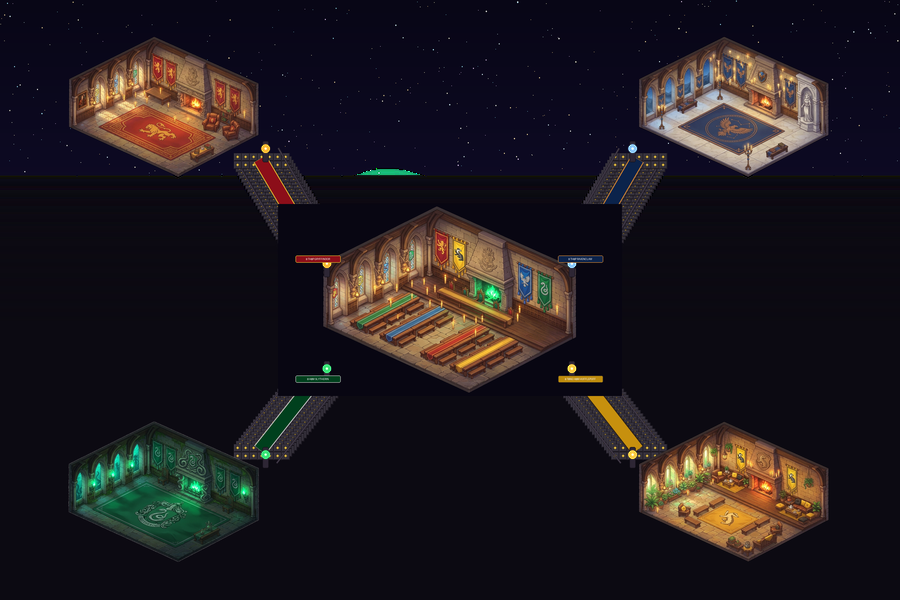
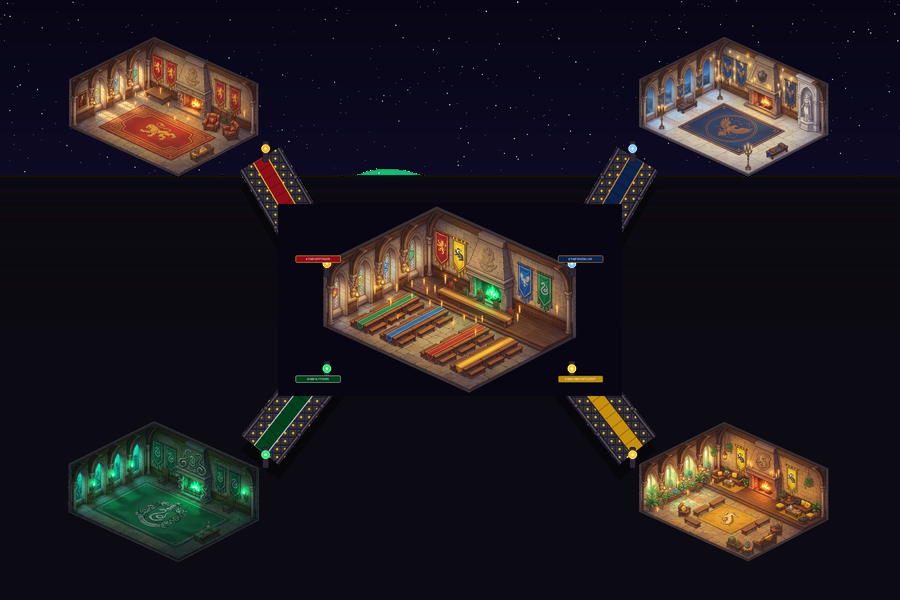
feat: redesign corridors to look like floating bridges with smooth clipping and carpet runners

diff --git a/scripts/build_hub_and_spoke_final.py b/scripts/build_hub_and_spoke_final.py
@@ -72,45 +72,93 @@ def build_map():
         dx = x2 - x1
         dy = y2 - y1
         dist = math.hypot(dx, dy)
-        steps = int(dist / 16) + 1
-        
-        # A. Stone Flagstone Foundation (width + 40 for stone parapet borders)
-        for s in range(steps + 1):
-            t = s / steps
-            cx = int(x1 + dx * t)
-            cy = int(y1 + dy * t)
-            half_w = width // 2 + 20
-            for fx in range(cx - half_w, cx + half_w, 32):
-                for fy in range(cy - 24, cy + 24, 32):
-                    world.paste(flag_tile, (fx, fy), flag_tile)
-
-        # B. Stone Side Parapets / Balustrades
         nx = -dy / dist
         ny = dx / dist
-        w_half = width // 2
         
-        # Left and Right stone curbs
-        for side in [-1, 1]:
-            curb_x1 = int(x1 + side * w_half * nx)
-            curb_y1 = int(y1 + side * w_half * ny)
-            curb_x2 = int(x2 + side * w_half * nx)
-            curb_y2 = int(y2 + side * w_half * ny)
-            draw.line([(curb_x1, curb_y1), (curb_x2, curb_y2)], fill=(32, 26, 36, 255), width=8)
-            draw.line([(curb_x1, curb_y1), (curb_x2, curb_y2)], fill=(65, 58, 72, 255), width=4)
+        # Define the polygon for the stone foundation
+        w_half = width // 2 + 10
+        poly_pts = [
+            (x1 + w_half * nx, y1 + w_half * ny),
+            (x2 + w_half * nx, y2 + w_half * ny),
+            (x2 - w_half * nx, y2 - w_half * ny),
+            (x1 - w_half * nx, y1 - w_half * ny)
+        ]
+        
+        # A. Bridge Drop Shadow (to make it look like it's floating in the night sky)
+        shadow_offset_y = 60
+        shadow_pts = [(p[0], p[1] + shadow_offset_y) for p in poly_pts]
+        draw.polygon(shadow_pts, fill=(8, 6, 12, 200))
+        
+        # B. Smooth Stone Flagstone Foundation using polygon mask
+        corridor_mask = Image.new('L', (CW, CH), 0)
+        mask_draw = ImageDraw.Draw(corridor_mask)
+        mask_draw.polygon(poly_pts, fill=255)
+        
+        min_x = max(0, int(min(p[0] for p in poly_pts)))
+        max_x = min(CW, int(max(p[0] for p in poly_pts)))
+        min_y = max(0, int(min(p[1] for p in poly_pts)))
+        max_y = min(CH, int(max(p[1] for p in poly_pts)))
+        
+        texture_layer = Image.new('RGBA', (CW, CH), (0,0,0,0))
+        for fx in range(min_x, max_x, 32):
+            for fy in range(min_y, max_y, 32):
+                texture_layer.paste(flag_tile, (fx, fy))
+                
+        world.paste(texture_layer, (0, 0), corridor_mask)
 
-        # C. Velvet Carpet Runner in Center (width ~ 54)
-        c_half = 27
+        # C. Bridge Side Parapets / Balustrades
+        w_curb = width // 2
+        for side in [-1, 1]:
+            curb_x1 = int(x1 + side * w_curb * nx)
+            curb_y1 = int(y1 + side * w_curb * ny)
+            curb_x2 = int(x2 + side * w_curb * nx)
+            curb_y2 = int(y2 + side * w_curb * ny)
+            
+            # Outer dark ledge
+            draw.line([(curb_x1, curb_y1), (curb_x2, curb_y2)], fill=(20, 16, 24, 255), width=16)
+            # Main stone rail
+            draw.line([(curb_x1, curb_y1), (curb_x2, curb_y2)], fill=(55, 48, 62, 255), width=10)
+            # Highlight on rail
+            draw.line([(curb_x1, curb_y1), (curb_x2, curb_y2)], fill=(85, 78, 92, 255), width=4)
+            
+            # Draw intermittent pillars along the parapet
+            p_steps = int(dist / 120)
+            for p_s in range(1, p_steps):
+                t = p_s / p_steps
+                px = int(x1 + dx * t + side * w_curb * nx)
+                py = int(y1 + dy * t + side * w_curb * ny)
+                draw.ellipse([px - 10, py - 10, px + 10, py + 10], fill=(45, 38, 52, 255), outline=(20, 16, 24, 255), width=2)
+                draw.ellipse([px - 5, py - 5, px + 5, py + 5], fill=(85, 78, 92, 255))
+
+        # D. Velvet Carpet Runner in Center (width ~ 60)
+        c_half = 30
         carpet_pts = [
             (int(x1 + c_half * nx), int(y1 + c_half * ny)),
             (int(x2 + c_half * nx), int(y2 + c_half * ny)),
             (int(x2 - c_half * nx), int(y2 - c_half * ny)),
             (int(x1 - c_half * nx), int(y1 - c_half * ny))
         ]
+        
+        # Carpet base
         draw.polygon(carpet_pts, fill=(*carpet_color, 240), outline=(*border_color, 255))
         
-        # Gold braid border on carpet
-        draw.line([carpet_pts[0], carpet_pts[1]], fill=(*border_color, 255), width=3)
-        draw.line([carpet_pts[3], carpet_pts[2]], fill=(*border_color, 255), width=3)
+        # Gold braid borders on carpet
+        draw.line([carpet_pts[0], carpet_pts[1]], fill=(*border_color, 255), width=4)
+        draw.line([carpet_pts[3], carpet_pts[2]], fill=(*border_color, 255), width=4)
+        
+        # Carpet cross-stripes for depth
+        stripe_steps = int(dist / 40)
+        for s in range(1, stripe_steps):
+            t = s / stripe_steps
+            sx = int(x1 + dx * t)
+            sy = int(y1 + dy * t)
+            sx1 = int(sx + (c_half - 2) * nx)
+            sy1 = int(sy + (c_half - 2) * ny)
+            sx2 = int(sx - (c_half - 2) * nx)
+            sy2 = int(sy - (c_half - 2) * ny)
+            # Add a darker stripe line
+            dark_stripe = (int(carpet_color[0]*0.7), int(carpet_color[1]*0.7), int(carpet_color[2]*0.7), 150)
+            draw.line([(sx1, sy1), (sx2, sy2)], fill=dark_stripe, width=3)
 
     # Draw the 4 Spokes (Corridors connecting Great Hall to the 4 Wings)
     # Spoke 1: Great Hall (1312, 1096) -> Gryffindor Tower (900, 620)
